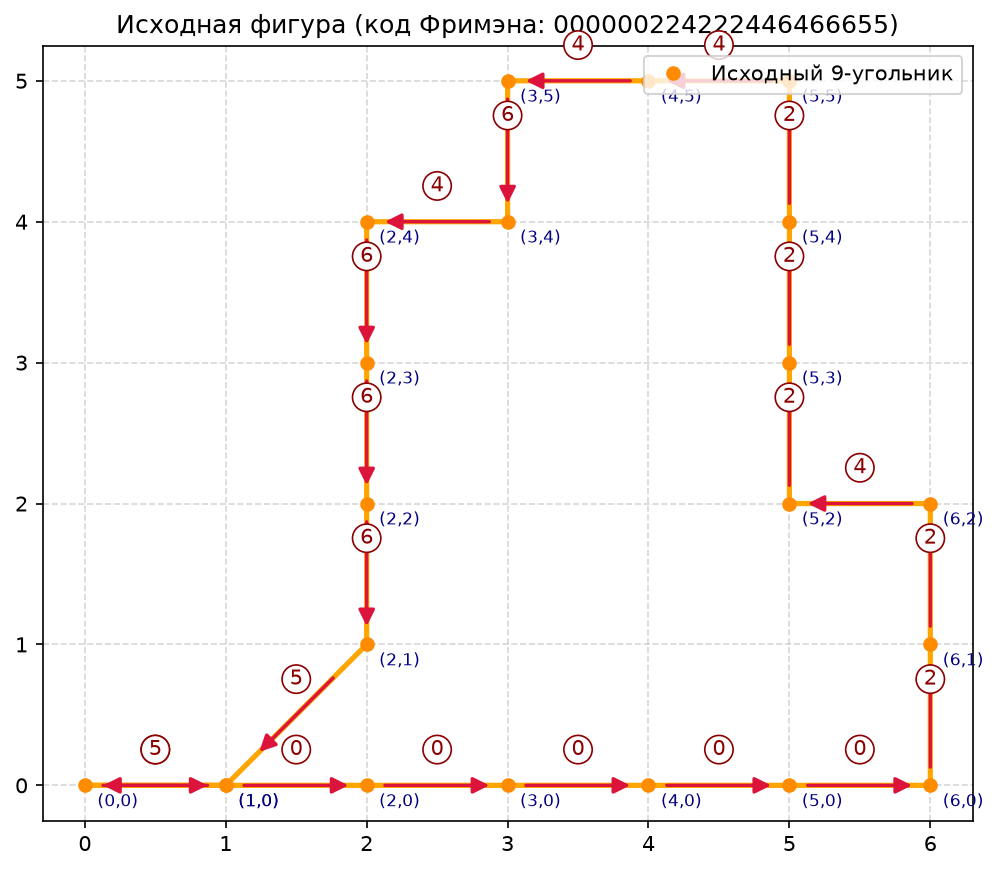
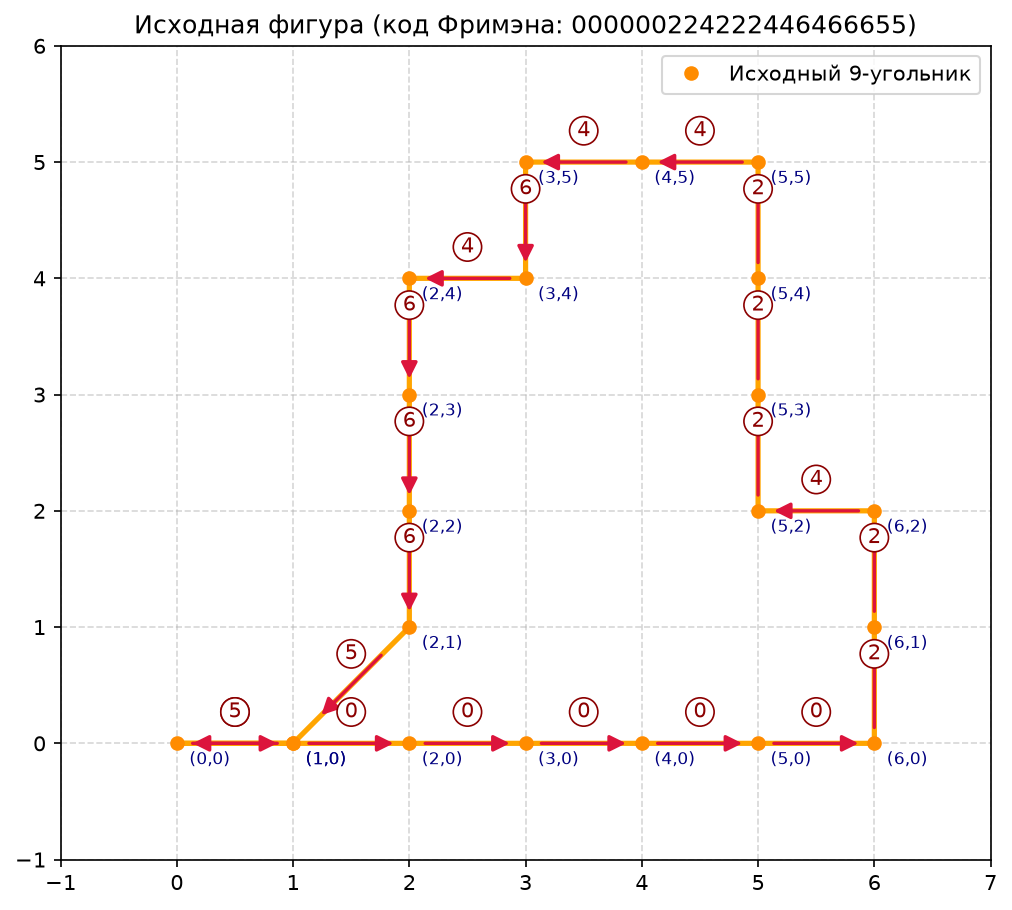
фикс масштаба

diff --git a/lab1/main.py b/lab1/main.py
@@ -1,4 +1,3 @@
-# -*- coding: utf-8 -*-
 """
 Лабораторная работа №1. Аффинные преобразования.
 Студент: Нестеров А.С., группа Аэ-21-23.
@@ -11,20 +10,17 @@
 === ТЕОРИЯ (сжато) ===
 Код Фримэна. Примитив описывается цепочкой элементарных векторов по 8
 направлениям. Направление i = i*45°, i = 0..7. Длина вектора
-D = T*(sqrt(2))^p, p = i mod 2 (T — линейный размер клетки). При T=1
-чётные направления дают (±1,0)/(0,±1), нечётные — (±1,±1).
+D = T*(sqrt(2))^p, p = i mod 2. При T=1 чётные направления дают
+(±1,0)/(0,±1), нечётные — (±1,±1).
 
 Однородные координаты. Точка P(X, Y, W), W != 0. Декартовы:
 x = X/W, y = Y/W. При W=1: P(x, y, 1). Зачем: в декартовых 2x2 нельзя
-одной матрицей описать перенос, а в однородных 3x3 — можно. Также
-однородные координаты позволяют задавать точки в бесконечности
-(W = 0) и делать проективные преобразования.
+одной матрицей описать перенос, а в однородных 3x3 — можно.
 
 Аффинное преобразование в однородных координатах: p' = M @ p,
 где M — матрица 3x3, p = [x, y, 1]^T.
 
-Композиция. Сначала M1, потом M2: p' = M2 @ M1 @ p. Порядок важен,
-умножение матриц не коммутативно.
+Композиция. Сначала M1, потом M2: p' = M2 @ M1 @ p. Порядок важен.
 
 Смена системы координат. Чтобы выполнить операцию относительно
 произвольной точки/прямой, переходим в удобную систему (точка — начало,
@@ -61,10 +57,9 @@ FREEMAN_STEPS = {
 
 
 def decode_freeman(code):
-    """Декодирует код Фримэна в список вершин (x, y). Возвращает
-    список без дублирующей последней точки (замкнутый контур)."""
+    """Декодирует код Фримэна в список вершин (x, y) без дублирующей точки."""
     x, y = 0, 0
-    points = [(x, y)]                          # стартовая вершина
+    points = [(x, y)]
     for ch in code:
         dx, dy = FREEMAN_STEPS[ch]
         x += dx
@@ -84,8 +79,8 @@ def points_to_homogeneous(points):
 
 def apply_matrix(M, points):
     """Применяет матрицу 3x3 к списку точек. Возвращает список (x, y)."""
-    P = points_to_homogeneous(points)          # Nx3
-    P_new = P @ M.T                            # Nx3 @ 3x3 = Nx3
+    P = points_to_homogeneous(points)
+    P_new = P @ M.T
     W = P_new[:, 2:3].copy()
     W[W == 0] = 1.0                            # защита от деления на 0
     xy = P_new[:, :2] / W
@@ -108,9 +103,9 @@ def translation(tx, ty):
 
 
 def scaling(sx, sy):
-    """Масштабирование (sx, sy). При sx=sy — однородное, иначе неоднородное.
-    | sx  0  0 |     Последовательные масштабирования мультипликативны:
-    |  0 sy  0 |     S(a) @ S(b) = S(a*b).
+    """Масштабирование (sx, sy). При sx=sy — однородное.
+    | sx  0  0 |     Последовательные масштабирования мультипликативны.
+    |  0 sy  0 |
     |  0  0  1 |"""
     return np.array([[float(sx), 0.0,       0.0],
                      [0.0,      float(sy), 0.0],
@@ -120,8 +115,8 @@ def scaling(sx, sy):
 def rotation(theta):
     """Поворот на theta (радианы, против часовой) вокруг начала координат.
     | cos -sin  0 |   Отрицательный поворот — транспонированная матрица
-    | sin  cos  0 |   положительного. Два последовательных поворота
-    |  0    0   1 |   аддитивны: R(a) @ R(b) = R(a+b)."""
+    | sin  cos  0 |   положительного. Два поворота аддитивны.
+    |  0    0   1 |"""
     c, s = math.cos(theta), math.sin(theta)
     return np.array([[c, -s, 0.0],
                      [s,  c, 0.0],
@@ -143,7 +138,7 @@ def reflection_y():
 
 
 def reflection_origin():
-    """Отражение относительно начала координат (центральная симметрия)."""
+    """Отражение относительно начала координат."""
     return np.array([[-1.0,  0.0, 0.0],
                      [ 0.0, -1.0, 0.0],
                      [ 0.0,  0.0, 1.0]])
@@ -197,6 +192,14 @@ def reflection_about_line(k, b):
 # ЧАСТЬ 5. ВИЗУАЛИЗАЦИЯ
 # =============================================================
 
+def compute_bounds(polygons, pad=1.5):
+    """Габариты по всем полигонам: (x_lo, x_hi, y_lo, y_hi).
+    Используется, чтобы задать xlim/ylim и обрезать прямую по краям."""
+    xs = [p[0] for poly in polygons for p in poly]
+    ys = [p[1] for poly in polygons for p in poly]
+    return (min(xs) - pad, max(xs) + pad, min(ys) - pad, max(ys) + pad)
+
+
 def plot_polygon(ax, points, label, color, linestyle='-'):
     """Рисует замкнутый многоугольник и добавляет его в легенду."""
     xs = [p[0] for p in points] + [points[0][0]]
@@ -249,19 +252,26 @@ def draw_freeman(ax, points, code):
                     textcoords='offset points', xytext=(6, -10),
                     fontsize=8, color='navy')
 
+    # Габариты исходной фигуры + отступ
+    x_lo, x_hi, y_lo, y_hi = compute_bounds([points], pad=1.0)
+    ax.set_xlim(x_lo, x_hi)
+    ax.set_ylim(y_lo, y_hi)
     ax.grid(True, linestyle='--', alpha=0.5)
     ax.set_aspect('equal')
     ax.set_title(f"Исходная фигура (код Фримэна: {code})")
     ax.legend(loc='upper right')
 
 
-def draw_line_y_eq_kx_b(ax, k, b, points, x_pad=2):
-    """Рисует прямую y = kx + b пунктиром в диапазоне, покрывающем фигуру."""
-    xs = [p[0] for p in points]
-    x_lo, x_hi = min(xs) - x_pad, max(xs) + x_pad
-    ax.plot([x_lo, x_hi], [k * x_lo + b, k * x_hi + b],
+def draw_line_y_eq_kx_b(ax, k, b, label=None):
+    """Рисует прямую y = kx + b по текущим границам осей.
+    Т.к. xlim/ylim уже заданы, отрезок прямой автоматически обрежется
+    matplotlib'ом по краям области — не нужно считать диапазон самим."""
+    x_lo, x_hi = ax.get_xlim()
+    ax.plot([x_lo, x_hi],
+            [k * x_lo + b, k * x_hi + b],
             '--', color='magenta', linewidth=1.5,
-            label=f'y = {k}x + {b}')
+            label=label or f'y = {k}x + {b}',
+            zorder=1)
 
 
 def matrix_to_text(name, M):
@@ -310,7 +320,8 @@ def process_figure(fig_name, code, output_dir, ty=5, k=3, b=10):
     plt.close(fig1)
 
     # -------- КАРТИНКА 2: все шаги вместе + прямая --------
-    fig2, ax2 = plt.subplots(figsize=(11, 11))
+    # ВАЖНО: это ПОШАГОВЫЙ рисунок. Комплексного итога здесь НЕТ.
+    fig2, ax2 = plt.subplots(figsize=(10, 10))
     plot_polygon(ax2, points, "Исходный",                   'black')
     plot_polygon(ax2, p1,     f"После переноса T(0,{ty})",  'green')
     plot_polygon(ax2, p2,     f"Шаг 1: T(0,{-b})",          'olive')
@@ -318,14 +329,23 @@ def process_figure(fig_name, code, output_dir, ty=5, k=3, b=10):
     plot_polygon(ax2, p4,     "Шаг 3: Rx",                  'red')
     plot_polygon(ax2, p5,     "Шаг 4: R(alpha)",            'purple')
     plot_polygon(ax2, p6,     f"Шаг 5: T(0,{b})",           'brown')
-    plot_polygon(ax2, p_comb, "Итог (комплексно)",          'blue',
-                 linestyle='--')
-    draw_line_y_eq_kx_b(ax2, k, b, points, x_pad=4)         # прямая y = kx+b
+
+    # Границы по всем полигонам + запас, чтобы прямая была видна рядом
+    x_lo, x_hi, y_lo, y_hi = compute_bounds(
+        [points, p1, p2, p3, p4, p5, p6], pad=1.5
+    )
+    ax2.set_xlim(x_lo, x_hi)
+    ax2.set_ylim(y_lo, y_hi)
+
+    # Прямая — рисуется поверх заданных границ и обрезается автоматически
+    draw_line_y_eq_kx_b(ax2, k, b)
+
     ax2.grid(True, linestyle='--', alpha=0.5)
     ax2.set_aspect('equal')
     ax2.set_title(f"Пошаговое преобразование: {fig_name}\n"
                   f"(перенос по Y на {ty}, отражение отн. y = {k}x + {b})")
-    ax2.legend(loc='best', fontsize=9)
+    # Легенда — снаружи осей, чтобы не закрывать полигоны
+    ax2.legend(loc='upper left', bbox_to_anchor=(1.02, 1.0), fontsize=9)
     fig2.savefig(os.path.join(output_dir, f"{fig_name}_2_steps.png"),
                  dpi=150, bbox_inches='tight')
     plt.close(fig2)
@@ -334,15 +354,25 @@ def process_figure(fig_name, code, output_dir, ty=5, k=3, b=10):
     fig3, ax3 = plt.subplots(figsize=(9, 9))
     plot_polygon(ax3, points, "Исходный",                   'black')
     plot_polygon(ax3, p_comb, "Комплексное преобразование",  'blue')
-    draw_line_y_eq_kx_b(ax3, k, b, points, x_pad=4)         # прямая y = kx+b
+
+    x_lo, x_hi, y_lo, y_hi = compute_bounds(
+        [points, p_comb], pad=1.5
+    )
+    ax3.set_xlim(x_lo, x_hi)
+    ax3.set_ylim(y_lo, y_hi)
+
+    draw_line_y_eq_kx_b(ax3, k, b)
+
     ax3.grid(True, linestyle='--', alpha=0.5)
     ax3.set_aspect('equal')
     ax3.set_title(f"Комплексное преобразование: {fig_name}\n"
                   f"M_combined = M_reflect @ T(0,{ty})")
-    ax3.legend(loc='best')
-    ax3.text(0.02, 0.02, matrix_to_text("M_combined", M_comb),
-             transform=ax3.transAxes, va='bottom', family='monospace',
-             fontsize=8,
+    # Легенда — снаружи осей
+    ax3.legend(loc='upper left', bbox_to_anchor=(1.02, 1.0), fontsize=9)
+    # Матрица — в правом нижнем углу осей, чтобы не налезала на фигуры
+    ax3.text(0.98, 0.02, matrix_to_text("M_combined", M_comb),
+             transform=ax3.transAxes, va='bottom', ha='right',
+             family='monospace', fontsize=8,
              bbox=dict(boxstyle='round', facecolor='wheat', alpha=0.85))
     fig3.savefig(os.path.join(output_dir, f"{fig_name}_3_combined.png"),
                  dpi=150, bbox_inches='tight')
@@ -357,13 +387,11 @@ if __name__ == "__main__":
     output_dir = "results"
     os.makedirs(output_dir, exist_ok=True)
 
-    # Три невыпуклых 9-угольника. Каждый проверен вручную:
-    # 9 углов, есть 3 рефлексные (вогнутые) вершины, сумма dx = dy = 0,
-    # нет самопересечений. Все разные по форме и масштабу.
+    # Три невыпуклых 9-угольника: разные формы и масштабы.
     figures = [
-        ("figure1", "0000242424665"),              # малый зигзаг (≈ 4x3)
-        ("figure2", "0000022224664246655"),        # средний с выемкой (≈ 5x4)
-        ("figure3", "000000224222446466655"),      # крупный ступенчатый (≈ 6x5)
+        ("figure1", "0000242424665"),              # малый зигзаг
+        ("figure2", "0000022224664246655"),        # средний с выемкой
+        ("figure3", "000000224222446466655"),      # крупный ступенчатый
     ]
 
     for fig_name, code in figures:
